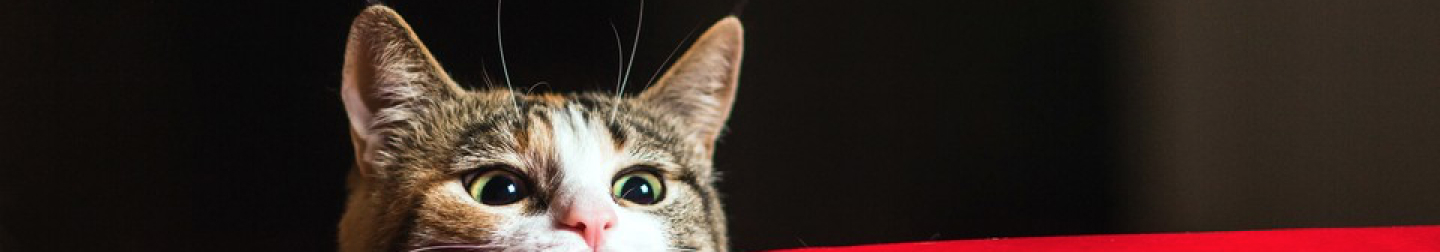
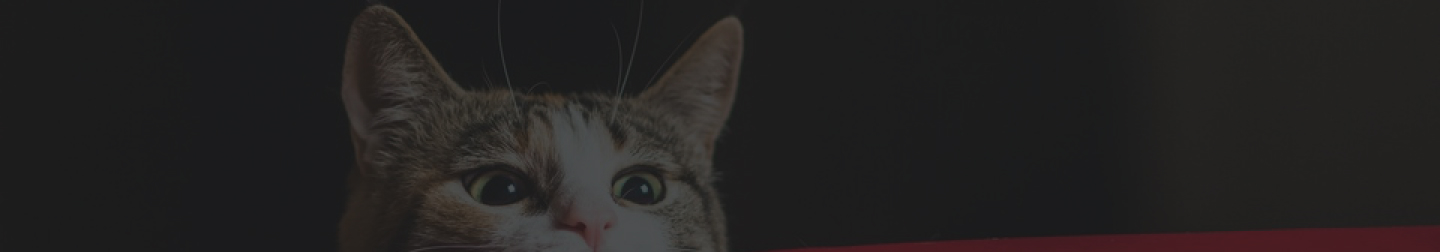
сверстал шапку

Changed region(s): [[0.2188, 0.0, 1.0, 1.0]]

diff --git a/index.html b/index.html
@@ -4,24 +4,29 @@
   <meta charset="UTF-8">
   <meta name="viewport" content="width=device-width, initial-scale=1.0">
   <title>Тестовое для Алеф ван лтд</title>
+  <link rel="stylesheet" href="css/normalize.css">
+  <link rel="stylesheet" href="css/style.css">
+
   
 </head>
 <body>
   <header class="header">
     <div class="header-container container">
       <div class="header-main">
-        <img src="" alt="Логотип" class="logo">
-        <div class="menu">
-          <ul class="menu-list">
+        <img src="img/logo.svg" alt="Логотип" class="logo">
+        <ul class="menu-list">
             <li class="menu-item">Main</li>
             <li class="menu-item">Gallery</li>
             <li class="menu-item">News</li>
             <li class="menu-item">Profile</li>
-          </ul>
+         </ul>
+        <div class="tel">
+          +544 3490 00000 <br><span class="tel-quick">Звони скорее!</span>
         </div>
-        <div class="tel">+544 3490 00000 Звони скорее!</div>
       </div>
-      <div class="header-mustBeCounter">Найдено 349 котов</div>
+      <div class="header-mustBeCounter">
+        Найдено 349 котов
+      </div>
     </div>
   </header>
   

diff --git a/css/style.css b/css/style.css
@@ -1,2 +1,74 @@
-.header-container {
+* {
+  font-family: "Montserrat", sans-serif;
+  font-style: normal;
 }
+
+.header-container {
+  height: 252px;
+  width: 100%;
+  background-image: url(../img/header-bg.jpg);
+  background-size: contain;
+  background-repeat: no-repeat;
+  color: #fff;
+  display: flex;
+  flex-wrap: wrap;
+}
+
+.header-main {
+  display: flex;
+  align-items: center;
+  width: 100%;
+}
+
+.logo {
+  margin-left: 131px;
+}
+
+.menu-list {
+  width: 26%;
+  display: flex;
+  justify-content: space-between;
+  list-style: none;
+  padding-left: 0px;
+  margin-left: 120px;
+}
+
+.menu-item {
+  font-weight: 400;
+  font-size: 18px;
+  line-height: 22px;
+}
+
+.menu-item:last-child {
+  padding-right: 0px;
+}
+
+.tel {
+  margin-left: 350px;
+  margin-top: 30px;
+  font-weight: bold;
+  font-size: 24px;
+  line-height: 29px;
+  text-align: right;
+}
+
+.tel-quick {
+  font-weight: normal;
+  font-size: 18px;
+  line-height: 22px;
+}
+
+.header-mustBeCounter {
+  margin-left: 131px;
+  font-weight: bold;
+  font-size: 38px;
+  line-height: 46px;
+  margin-bottom: 40px;
+}
+
+/* @media (min-width: 1180px) {
+  {
+    max-width: 1280px;
+    margin: 0 auto;
+  }
+} */
